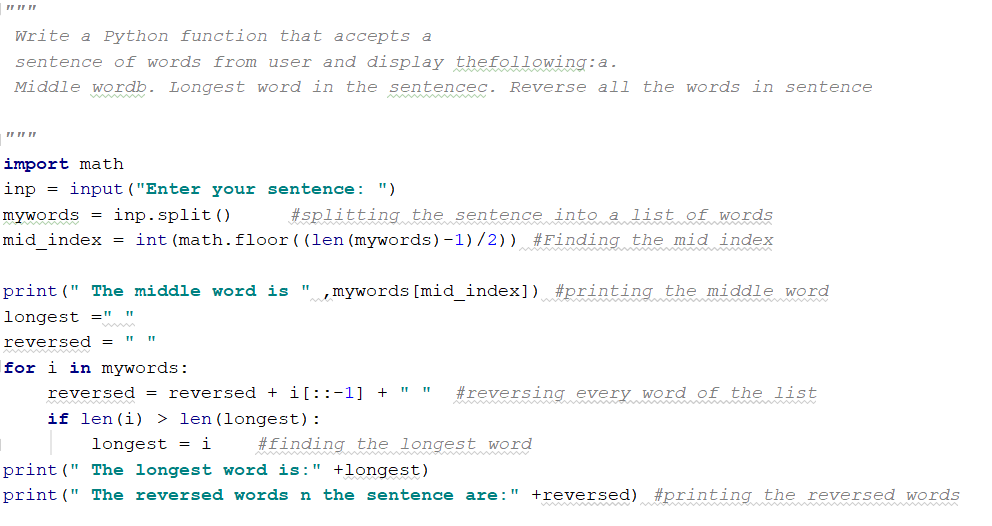
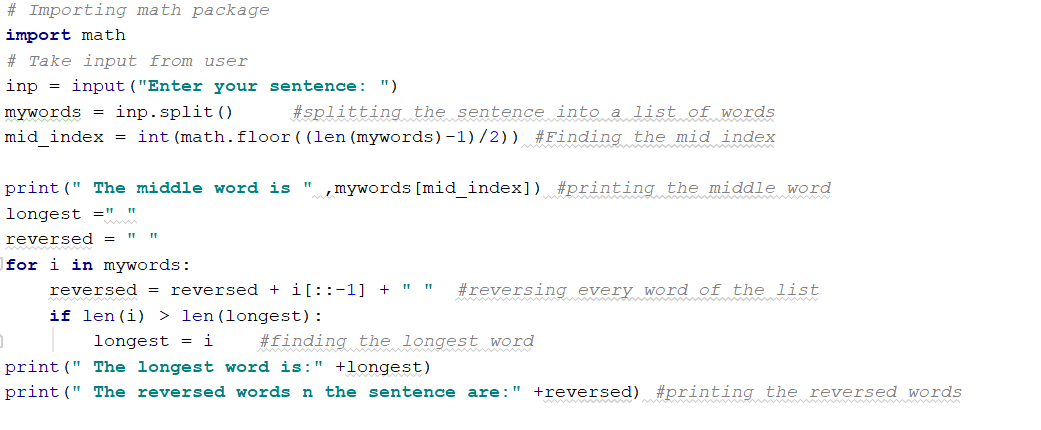
Lab1

diff --git a/LAB1/Source/2.py b/LAB1/Source/2.py
@@ -1,15 +1,11 @@
-"""
- Write a Python function that accepts a
- sentence of words from user and display thefollowing:a.
- Middle wordb. Longest word in the sentencec. Reverse all the words in sentence
-
-"""
+# Importing math package
 import math
+# Take input from user
 inp = input("Enter your sentence: ")
 mywords = inp.split()     #splitting the sentence into a list of words
-mid_index = math.floor((len(mywords)-1)/2) #Finding the mid index
+mid_index = int(math.floor((len(mywords)-1)/2)) #Finding the mid index
 
-print(" The middle word is " +mywords[mid_index]) #printing the middle word
+print(" The middle word is " ,mywords[mid_index]) #printing the middle word
 longest =" "
 reversed = " "
 for i in mywords:
@@ -18,3 +14,5 @@ for i in mywords:
         longest = i    #finding the longest word
 print(" The longest word is:" +longest)
 print(" The reversed words n the sentence are:" +reversed) #printing the reversed words
+
+
